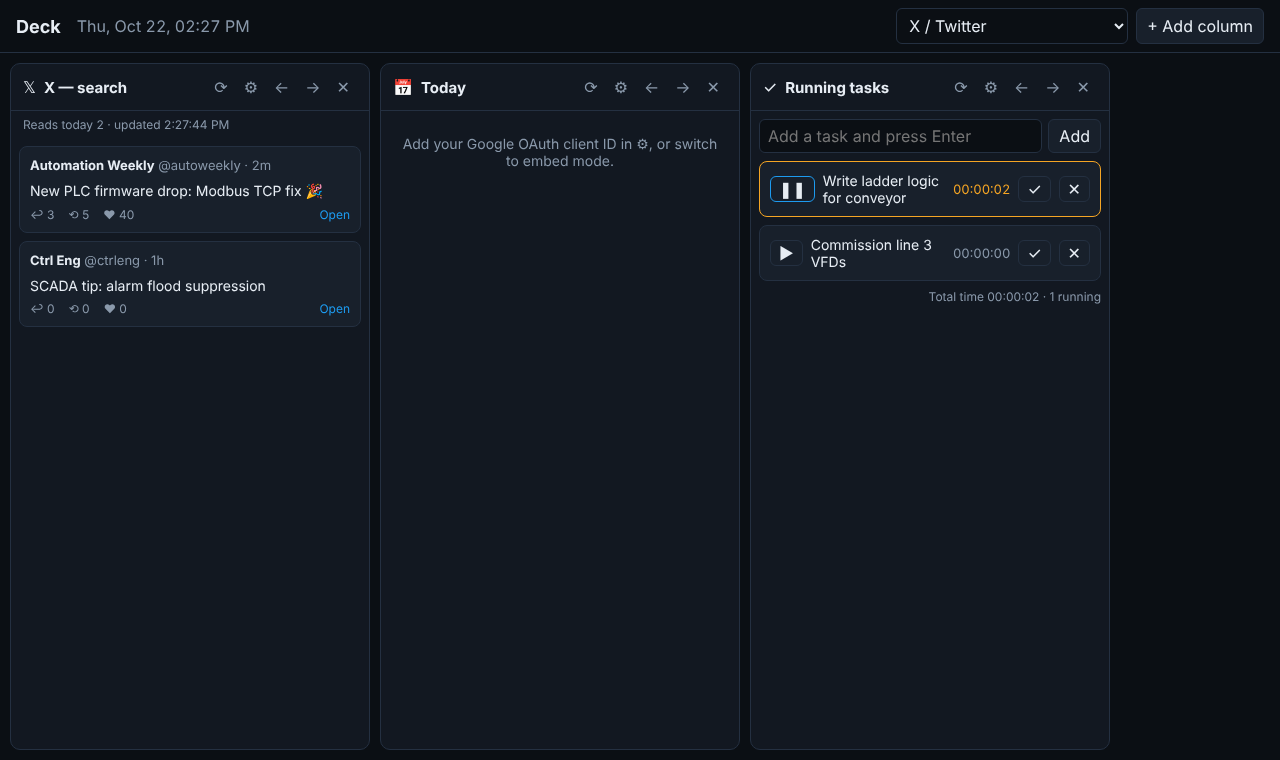
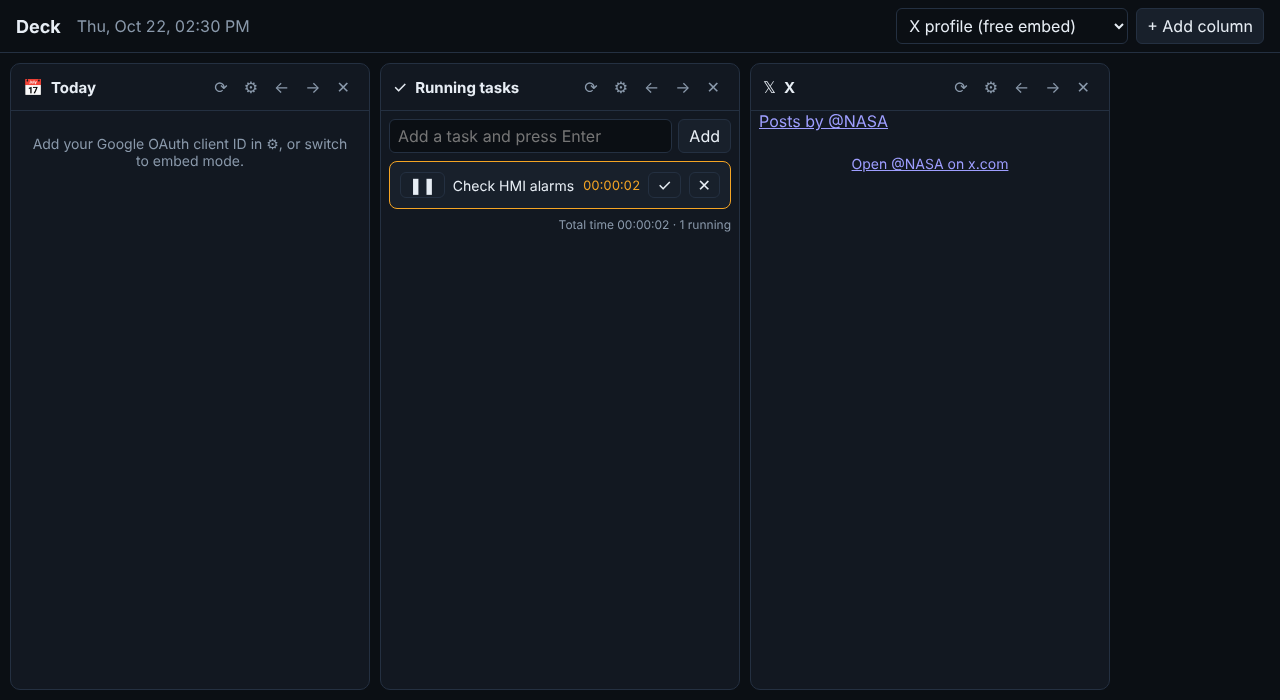
Deck: make it a free static website, drop the paid X API
Remove the Node server and X API columns; X is now an optional free
embed widget. Calendar and tasks run entirely in the browser, so the
site can be hosted on any free static host.

Claude-Session: https://claude.ai/code/session_01UGpDhMRpD2PyKUAGwUcJsL

diff --git a/deck/app.js b/deck/app.js
@@ -1,7 +1,7 @@
 // Deck: TweetDeck-style columns. Each column type is a small module with
 // defaults(), settings(col) -> form HTML, and render(col, el) which may return a cleanup fn.
-// Layout and settings live in localStorage; nothing leaves the browser except
-// calls to this page's own server (/api/x) and to Google with your own sign-in.
+// Static site, no server and no paid APIs: layout, settings and tasks live in
+// localStorage; the only outside calls are X's embed widget and Google, with your own sign-in.
 
 const STORE = "deck.columns.v1";
 const $ = (s, r = document) => r.querySelector(s);
@@ -15,82 +15,37 @@ function save(key, val) {
   try { localStorage.setItem(key, JSON.stringify(val)); } catch { /* private mode: run without saving */ }
 }
 
-const ago = (iso) => {
-  const s = (Date.now() - new Date(iso)) / 1000;
-  if (s < 60) return `${Math.floor(s)}s`;
-  if (s < 3600) return `${Math.floor(s / 60)}m`;
-  if (s < 86400) return `${Math.floor(s / 3600)}h`;
-  return new Date(iso).toLocaleDateString();
-};
 const hms = (ms) => {
   const t = Math.floor(ms / 1000);
   return [Math.floor(t / 3600), Math.floor(t / 60) % 60, t % 60].map((n) => String(n).padStart(2, "0")).join(":");
 };
 
-/* ---------------- X / Twitter ---------------- */
+/* ---------------- X / Twitter (free embed, no API) ---------------- */
 
+// X's API is pay-per-read, so this column uses X's own free timeline widget instead.
+// X decides what the widget shows: sometimes a sign-in prompt or older posts.
 const X = {
   icon: "𝕏",
-  defaults: () => ({ title: "X — search", source: "search", query: "PLC OR SCADA OR \"industrial automation\" -is:retweet lang:en", pollSec: 60 }),
+  defaults: () => ({ title: "X", query: "" }),
   title: (c) => c.title,
   settings: (c) => `
-    <label>Source
-      <select name="source">
-        ${[["search", "Search (API)"], ["user", "User's posts (API)"], ["list", "List ID (API)"], ["home", "My home timeline (API, user token)"], ["bookmarks", "My bookmarks (API, user token)"], ["embed", "Embedded profile — free, no API"]]
-          .map(([v, l]) => `<option value="${v}" ${c.source === v ? "selected" : ""}>${l}</option>`).join("")}
-      </select>
-    </label>
-    <label>Query / @username / list ID <input name="query" value="${esc(c.query)}"></label>
-    <label>Check every (seconds) <input name="pollSec" type="number" min="15" value="${c.pollSec}"></label>
-    <p class="hint">The server caches each feed (X_MIN_POLL_SEC) and stops at a daily read cap, because X bills per post read.</p>`,
+    <label>@username <input name="query" value="${esc(c.query)}" placeholder="@username"></label>
+    <p class="hint">Free embed widget, no API key. If it stays blank, sign in to x.com in this browser.</p>`,
   render(c, body, status) {
-    if (c.source === "embed") return X.embed(c, body, status);
-    const seen = new Set();
-    let first = true;
-    const tick = async () => {
-      try {
-        const r = await fetch(`/api/x/${c.source}?q=${encodeURIComponent(c.query)}`);
-        const d = await r.json();
-        if (!r.ok) throw new Error(d.error || r.statusText);
-        status(`${d.capped ? "Daily read cap reached — showing cached. " : ""}Reads today ${d.usage.reads} · updated ${new Date().toLocaleTimeString()}`);
-        if (!d.posts.length) { body.innerHTML = `<div class="empty">No posts yet.</div>`; return; }
-        body.innerHTML = d.posts.map((p) => {
-          const isNew = !first && !seen.has(p.id);
-          seen.add(p.id);
-          const m = p.metrics;
-          return `<article class="card post ${isNew ? "new" : ""}">
-            <div class="post-head">
-              ${p.author.avatar ? `<img src="${esc(p.author.avatar)}" alt="">` : ""}
-              <div><b>${esc(p.author.name)}</b> <span>@${esc(p.author.username)} · ${ago(p.createdAt)}</span></div>
-            </div>
-            <p class="post-text">${esc(p.text)}</p>
-            <div class="post-meta">
-              <span>↩ ${m.reply_count ?? 0}</span><span>⟲ ${m.retweet_count ?? 0}</span><span>♥ ${m.like_count ?? 0}</span>
-              <a href="https://x.com/${esc(p.author.username)}/status/${esc(p.id)}" target="_blank" rel="noopener">Open</a>
-            </div>
-          </article>`;
-        }).join("");
-        first = false;
-      } catch (e) {
-        status(e.message.includes("Failed to fetch") ? "Can't reach the deck server — start it with `node server.js`." : e.message, true);
-      }
-    };
-    tick();
-    const t = setInterval(tick, Math.max(15, c.pollSec) * 1000);
-    return { stop: () => clearInterval(t), refresh: tick };
-  },
-  embed(c, body, status) {
-    const user = c.query.replace(/^@/, "").replace(/[^A-Za-z0-9_]/g, "");
+    const user = (c.query || "").replace(/^@/, "").replace(/[^A-Za-z0-9_]/g, "");
     if (!user) { body.innerHTML = `<div class="empty">Set a @username in ⚙.</div>`; return; }
-    status("Free embedded widget. X may show a sign-in prompt or older posts instead of a live feed.");
-    body.innerHTML = `<a class="twitter-timeline" data-theme="dark" data-dnt="true" data-chrome="noheader nofooter transparent" href="https://twitter.com/${user}">Posts by @${user}</a>`;
-    const load = () => window.twttr?.widgets?.load(body);
-    if (window.twttr) load();
-    else if (!$("#twttr-js")) {
-      const s = Object.assign(document.createElement("script"), { id: "twttr-js", src: "https://platform.twitter.com/widgets.js", async: true });
-      s.onload = load;
-      document.head.append(s);
-    } else $("#twttr-js").addEventListener("load", load);
+    const draw = () => {
+      body.innerHTML = `<a class="twitter-timeline" data-theme="dark" data-dnt="true" data-chrome="noheader nofooter transparent" href="https://twitter.com/${user}">Posts by @${user}</a>
+        <div class="empty"><a href="https://x.com/${user}" target="_blank" rel="noopener">Open @${esc(user)} on x.com</a></div>`;
+      if (window.twttr?.widgets) window.twttr.widgets.load(body);
+      else if (!$("#twttr-js")) {
+        const s = Object.assign(document.createElement("script"), { id: "twttr-js", src: "https://platform.twitter.com/widgets.js", async: true });
+        s.onload = () => window.twttr?.widgets?.load(body);
+        document.head.append(s);
+      } else $("#twttr-js").addEventListener("load", () => window.twttr?.widgets?.load(body));
+    };
+    draw();
+    return { refresh: draw };
   },
 };
 
@@ -280,7 +235,6 @@ const TASKS = {
 
 const TYPES = { x: X, calendar: CAL, tasks: TASKS };
 let columns = load(STORE, null) || [
-  { id: uid(), type: "x", ...X.defaults() },
   { id: uid(), type: "calendar", ...CAL.defaults() },
   { id: uid(), type: "tasks", ...TASKS.defaults() },
 ];

diff --git a/deck/style.css b/deck/style.css
@@ -62,16 +62,6 @@ body { display: flex; flex-direction: column; }
 .card { background: var(--card); border: 1px solid var(--line); border-radius: 8px; padding: 10px; margin-top: 8px; }
 .empty { color: var(--muted); text-align: center; padding: 24px 8px; font-size: 14px; }
 
-/* Posts */
-.post-head { display: flex; gap: 8px; align-items: center; font-size: 13px; }
-.post-head img { width: 32px; height: 32px; border-radius: 50%; }
-.post-head b { color: var(--ink); }
-.post-head span { color: var(--muted); }
-.post-text { margin: 8px 0 6px; white-space: pre-wrap; word-wrap: break-word; font-size: 14px; line-height: 1.4; }
-.post-meta { display: flex; gap: 14px; color: var(--muted); font-size: 12px; }
-.post-meta a { color: var(--accent); margin-left: auto; text-decoration: none; }
-.post.new { border-color: var(--accent); }
-
 /* Calendar */
 .ev { display: grid; grid-template-columns: 74px 1fr; gap: 8px; }
 .ev time { color: var(--muted); font-size: 13px; font-variant-numeric: tabular-nums; }

diff --git a/deck/index.html b/deck/index.html
@@ -12,7 +12,7 @@
   <span class="clock" id="clock"></span>
   <div class="add">
     <select id="addType" aria-label="Column type">
-      <option value="x">X / Twitter</option>
+      <option value="x">X profile (free embed)</option>
       <option value="calendar">Google Calendar — today</option>
       <option value="tasks">Running tasks</option>
     </select>

diff --git a/deck/README.md b/deck/README.md
@@ -1,89 +1,65 @@
-# Deck: a TweetDeck-style dashboard
+# Deck: a TweetDeck-style dashboard (free, website only)
 
-One screen of side-by-side columns. Each column is one feed:
+One screen of side-by-side columns. It's a plain static website (HTML, CSS and JavaScript), with
+no server and no paid APIs.
 
-| Column | What it shows | Data source | Cost |
+| Column | What it shows | Source | Cost |
 |---|---|---|---|
-| **X / Twitter** | Search, a user's posts, a list, your home timeline, your bookmarks | X API v2 through `server.js` | Paid, per post read (see below) |
-| **X embed** | A profile's timeline | X's own embed widget | Free, but X may show a sign-in prompt or older posts |
-| **Google Calendar** | Today's events, with the current one highlighted | Google Calendar API, signed in from your browser | Free |
-| **Calendar embed** | Google's agenda view in an iframe | `calendar.google.com/embed` | Free, no setup |
-| **Running tasks** | Tasks with start/pause timers, finish, delete | Saved in your browser | Free |
+| **Google Calendar** | Today's events, with the current one highlighted and Meet links | Google Calendar API, signed in from your browser | Free |
+| **Calendar embed** | Google's agenda view | `calendar.google.com/embed` | Free, no setup |
+| **Running tasks** | Tasks with start/pause timers, finish, delete, total time | Your browser (localStorage) | Free |
+| **X profile** *(optional)* | One profile's timeline | X's free embed widget, no API | Free |
 
-You can add as many columns as you like, and rename, reorder and remove them. The layout is saved in your browser.
+X's API is pay-per-read, so it isn't used. The optional X column is X's own embed widget, and X controls
+what it shows: sometimes a sign-in prompt or older posts. For real-time X columns, X's own
+**X Pro** (pro.x.com) is the official TweetDeck.
 
-## Run it
+Add as many columns as you like with **+ Add column**. Rename and configure them with ⚙, move them with ← →, and remove them with ✕.
+The layout and tasks are saved in your browser.
+
+## Try it on your PC
+
+Google sign-in won't work from a `file://` page, so serve the folder:
 
 ```bash
 cd deck
-node server.js              # Node 18+, no npm install needed
-# open http://localhost:8080
+python3 -m http.server 8080      # then open http://localhost:8080
 ```
 
-The tasks and calendar-embed columns work right away. The other two need the keys below.
+## Put it on the web (free)
 
-## X / Twitter API: the honest picture (October 2026)
+These are static files, so any free static host works:
 
-- **There's no useful free tier anymore.** Since February 2026, X API access is **pay-per-use** by default.
-  Third-party trackers put reads at about **$0.005 per post** returned, and you top up credits in the
-  X Developer Console. The old $200/month Basic and Pro plans have been moved over to pay-per-use.
-  X changes these terms often, so check the current prices in the console.
-- **What that means for a live column:** fetching 10 posts a minute all day is about 14,000 reads, or
-  roughly **$70 a day**. That's why `server.js`:
-  - caches each feed for `X_MIN_POLL_SEC` (default **300 s**), so 5 browser tabs don't cost 5×;
-  - asks only for posts newer than the last one it has (`since_id`), so you pay just for new posts;
-  - stops calling X once it has read `X_DAILY_READ_CAP` posts today (default **500**, about $2.50 a day at most).
-- **The free option:** set a column's source to *Embedded profile*. It uses X's own widget with no API and no
-  cost, but X may show a login wall or a stale feed.
-- **The official option:** TweetDeck still exists as **X Pro** (pro.x.com). It's included with X Premium
-  (paid monthly) and gives real-time columns with no developer work.
+- **GitHub Pages:** repo Settings → Pages → deploy from this branch. The site is then at
+  `https://<user>.github.io/<repo>/deck/`.
+- **Netlify Drop:** drag the `deck` folder onto https://app.netlify.com/drop.
+- **Cloudflare Pages / Vercel:** connect the repo and set the root directory to `deck`. No build command is needed.
 
-### Setup
-1. Go to https://developer.x.com, create a project and an app, and add credits.
-2. Copy the app's **Bearer Token**. This covers search, user posts and lists.
-3. *(Optional)* For **home timeline** and **bookmarks** you need an OAuth 2.0 **user** access token with
-   the scopes `tweet.read users.read bookmark.read`. Generate one with the PKCE flow on the app's
-   "Keys and tokens" page or with any OAuth 2.0 tool. These tokens expire after 2 hours unless you
-   also request `offline.access` and refresh them.
-4. Start the server:
-   ```bash
-   X_BEARER_TOKEN=xxxx X_USER_TOKEN=yyyy X_MIN_POLL_SEC=300 X_DAILY_READ_CAP=500 node server.js
-   ```
-   The tokens stay on the server and never reach the browser.
+Whatever address you end up with, add it to the Google OAuth client's *Authorized JavaScript origins*
+(next section). Only the origin goes there, e.g. `https://user.github.io`, without the path.
 
-Search query examples: `PLC OR SCADA -is:retweet lang:en`, `from:elonmusk`, `#automation has:media`.
-
-## Google Calendar: free (about 5 minutes)
+## Google Calendar setup (free, about 5 minutes)
 
 1. https://console.cloud.google.com → create a project → **APIs & Services → Library** → enable **Google Calendar API**.
-2. **OAuth consent screen**: choose External, fill in the app name, and add yourself as a **test user**.
+2. **OAuth consent screen**: choose External, fill in the app name, and add your Gmail as a **test user**.
 3. **Credentials → Create credentials → OAuth client ID → Web application.**
-   Under *Authorized JavaScript origins*, add `http://localhost:8080`, plus your real domain if you host it.
+   Under *Authorized JavaScript origins*, add `http://localhost:8080` and your hosted site's origin.
 4. Copy the client ID (`….apps.googleusercontent.com`) into the calendar column's ⚙ settings and click **Sign in with Google**.
 
-Access is read-only (`calendar.readonly`). The token lives in browser memory for about an hour, and then the
-column asks you to sign in again. To see a different calendar, put its ID in the column settings
-(Google Calendar → Settings → your calendar → *Integrate calendar*).
+Access is read-only (`calendar.readonly`). The token is kept in browser memory for about an hour, and then the
+column asks you to sign in again. A client ID isn't a secret, so it's fine for it to sit in a public website.
+To show another calendar, put its ID in the column settings (Google Calendar → Settings → your calendar →
+*Integrate calendar*).
 
 If you don't want any setup, switch the column to **embed** mode and enter your Gmail address. It shows
-Google's own agenda view, as long as you're signed into Google in the same browser.
+Google's own agenda view while you're signed into Google in the same browser.
 
 ## Tasks
 
 Type a task and press Enter. ▶ starts the timer and ❚❚ pauses it. More than one task can run at the same time.
-✓ finishes a task and ↺ reopens it. Timers keep counting across reloads because the start time is saved.
-Tasks are stored in this browser only (localStorage). To sync them across devices, the next step would be a
-small database on the server.
-
-## Hosting
-
-- **Your own PC only:** `node server.js`. You can also run it on startup with Task Scheduler, a systemd service or pm2.
-- **On the web:** any Node host works (Render, Railway, Fly.io, a VPS). Set the env vars there and add the
-  site's URL to the Google OAuth origins. Put it behind a login, because anyone who can open the page can
-  spend your X credits.
-- **As a desktop app:** the same files can go inside Electron or Tauri if you want a window instead of a browser tab.
+✓ finishes a task and ↺ reopens it. Timers keep counting across reloads.
+Tasks stay in the browser you use, so a different device or browser starts empty.
 
 ## Files
 - `index.html`, `style.css`: the page and the column template
-- `app.js`: column types (X, Calendar, Tasks) and the deck layout
-- `server.js`: static server plus the X API proxy with caching and the daily cap
+- `app.js`: column types (Calendar, Tasks, X embed) and the deck layout

diff --git a/README.md b/README.md
@@ -32,8 +32,8 @@ python <plugin>/scripts/transcribe.py check edit/<id>/transcripts/<stem>.json
 ```
 
 ## Deck
-`deck/` is a TweetDeck-style dashboard with columns for X feeds, today's Google Calendar and running
-tasks with timers. Run `node deck/server.js`. See `deck/README.md` for API keys and costs.
+`deck/` is a free, static TweetDeck-style website with columns for today's Google Calendar, running tasks
+with timers and an optional X profile embed. It uses no paid APIs. See `deck/README.md` for setup and free hosting.
 
 ## Web design toolkit
 `web-design/` holds the website-building setup: 25 design, UI/UX, animation (GSAP) and quality skills
